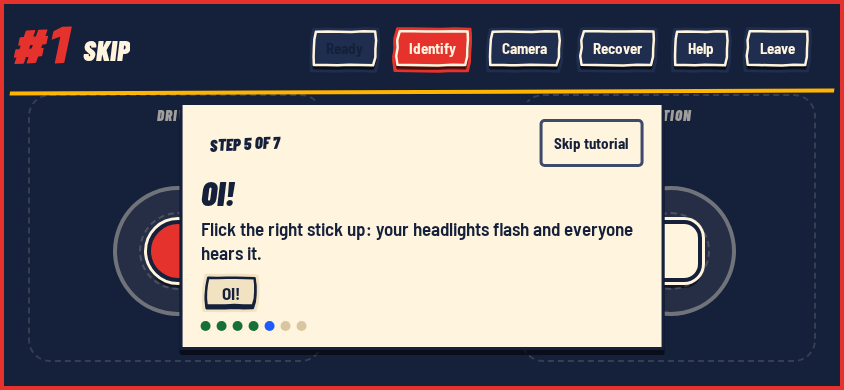
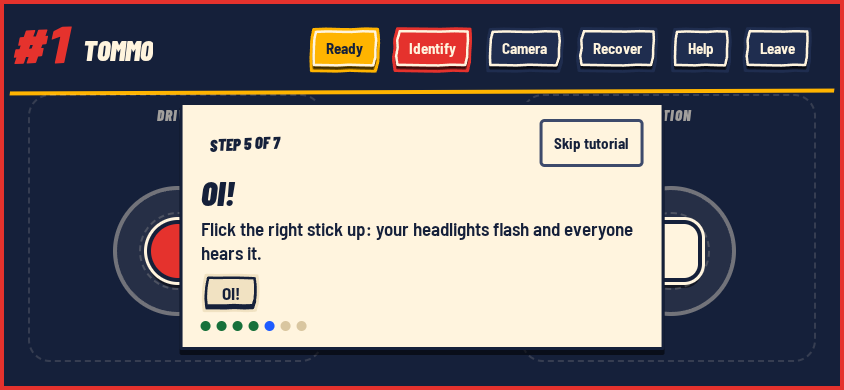
P1-C06 (br-p1-c06-p7p): recaptured every tutorial state after the fixes; self-review rewritten

Changed region(s): [[0.3389, 0.0615, 0.4621, 0.1846], [0.0924, 0.0923, 0.1848, 0.1538]]

diff --git a/docs/evidence/P1-C06/self-review.md b/docs/evidence/P1-C06/self-review.md
@@ -1,28 +1,40 @@
 # P1-C06 visual self-review (tutorial-lite on the phone)
 
-Captured by `JJ_CAPTURE_DIR=<dir> node --test web/tests/journeys/c06-tutorial.test.mjs` on eris (Linux, headless
-Chromium, a mobile touch context at 844x390, real host + jj-server + loopback WebRTC), commit 0910517. Chromium only.
+Captured by `JJ_CHROMIUM_GPU=1 JJ_CAPTURE_DIR=<dir> node --test web/tests/journeys/c06-tutorial.test.mjs` on eris
+(Linux, headless Chromium, a mobile touch context at 844x390, real host + jj-server + loopback WebRTC), commit c79d8a4
+(run `c06-c`). Chromium only. Rewritten after the fresh-eyes review (`fresh-eyes.md`, FAIL on the earlier captures).
 
 ## Looked at
 
-- `phone-tutorial-step1.png`: step 1 of 7 "Steer": the card sits large and central over the sticks (R101), with Skip
-  tutorial, the two goal chips (Right, Left) and the seven progress dots.
-- `phone-tutorial-oi.png`: a later step mid-way, goals ticking as the gesture lands.
-- `phone-tutorial-done.png`: "You're ready" with "Let's race" after every control was done.
+- `phone-tutorial-step1.png`: step 1 of 7 "Steer": the card sits large and central (R101), Skip tutorial top right,
+  the Right/Left goal chips and seven progress dots; Ready (saffron) in the tools row.
+- `phone-tutorial-step1-won.png`: both goals ticked: green chips "✓ Right", "✓ Left" and the green "Nice! On to the
+  next one" strip.
+- `phone-tutorial-step2.png`, `-step3-boost.png`, `-step4-drift.png`, `-oi.png`, `-step6-cone.png`,
+  `-step7-wheelie.png`: each step's title, plain instruction, goal chip and progress dots (done steps green).
+- `phone-tutorial-oi-ticked.png`: "✓ OI!" green with the strip.
+- `phone-tutorial-done.png`: "You're ready" with "Let's race".
+- `phone-tutorial-help-again.png`: Help reopens the tutorial at step 1.
+- `phone-tutorial-before-skip.png`, `phone-tutorial-skipped.png`: Skip on step 2 closes the card at once; the play
+  screen shows "Tap Ready when you are".
+- `phone-ready-pressed.png`: Ready pressed after skipping; the lone player's round starts ("Go!").
 
 ## Defects found and fixed
 
 - The tutorial never advanced when input came through the session (only touch handlers fed it): the session now
-  reports every stick sample (`onSticks`), so touch, tests and anything else that drives the sticks coach alike.
-- The Ready button in the tools rendered dark on dark: the brush system sets the slab fill through `--bz-fill`
-  (with `!important`), so Ready now sets that (saffron; green once ready).
+  reports every stick sample (`onSticks`).
+- The Ready button rendered dark on dark: it sets the brush fill (`--bz-fill`, saffron; green once ready).
+- Ticked goal chips and the "Nice!" strip rendered paper on paper (blank chips in the fresh-eyes review): the chip sets
+  `--bz-fill` to the success green, and the strip has a plain green fill.
+- An open tutorial is the controller's menu (G03): it now closes when the countdown starts, so nobody starts a race
+  on the autopilot.
 
 ## Remaining defects
 
-- The goal chips are paper-on-paper inside the card; readable, but flatter than the POC's ticked chips.
-- The card covers the middle of both stick zones; gestures still register (the sticks sit under it), but a player
-  may hesitate to touch through the card. The POC does the same; watch it at the playtest.
+- The card covers the middle of both stick zones; gestures still register under it (as in the POC), but a player may
+  hesitate to touch through the card. Watch it at the playtest.
+- The tutorial has no TV-side prompt on the seat's tile yet.
 
 ## Not covered
 
-- Portrait, WebKit/iOS Safari, real phones (F08 lane and P1-Q02), and the TV-side prompt on the seat's tile.
+- Portrait, WebKit/iOS Safari and real phones (F08 lane and P1-Q02).
